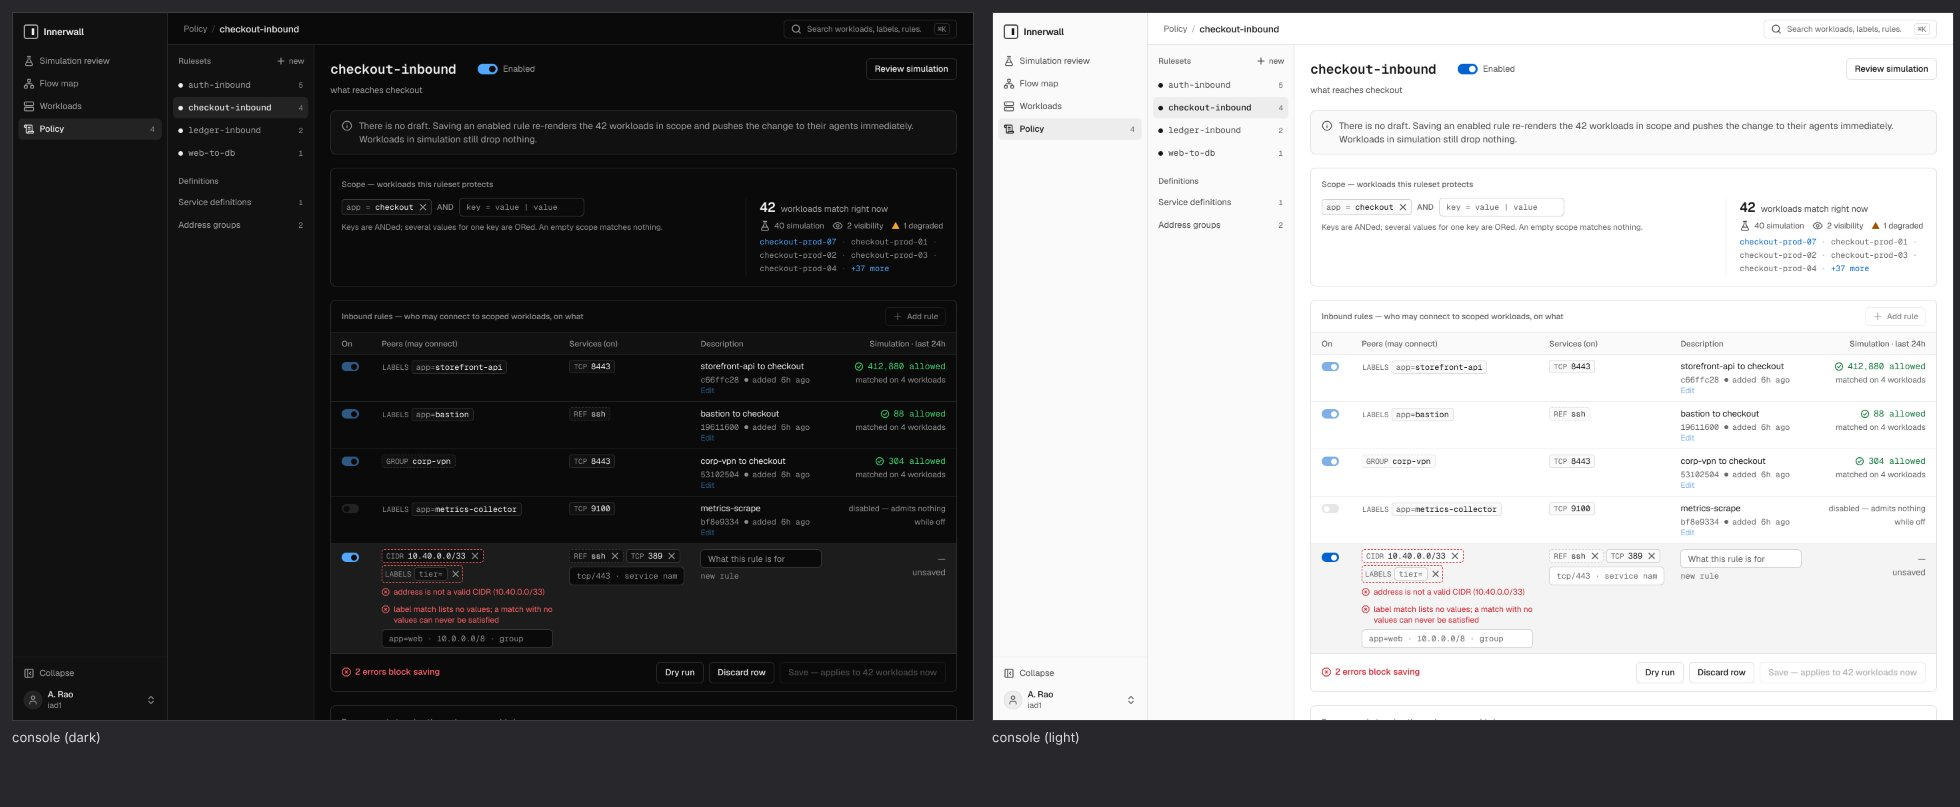
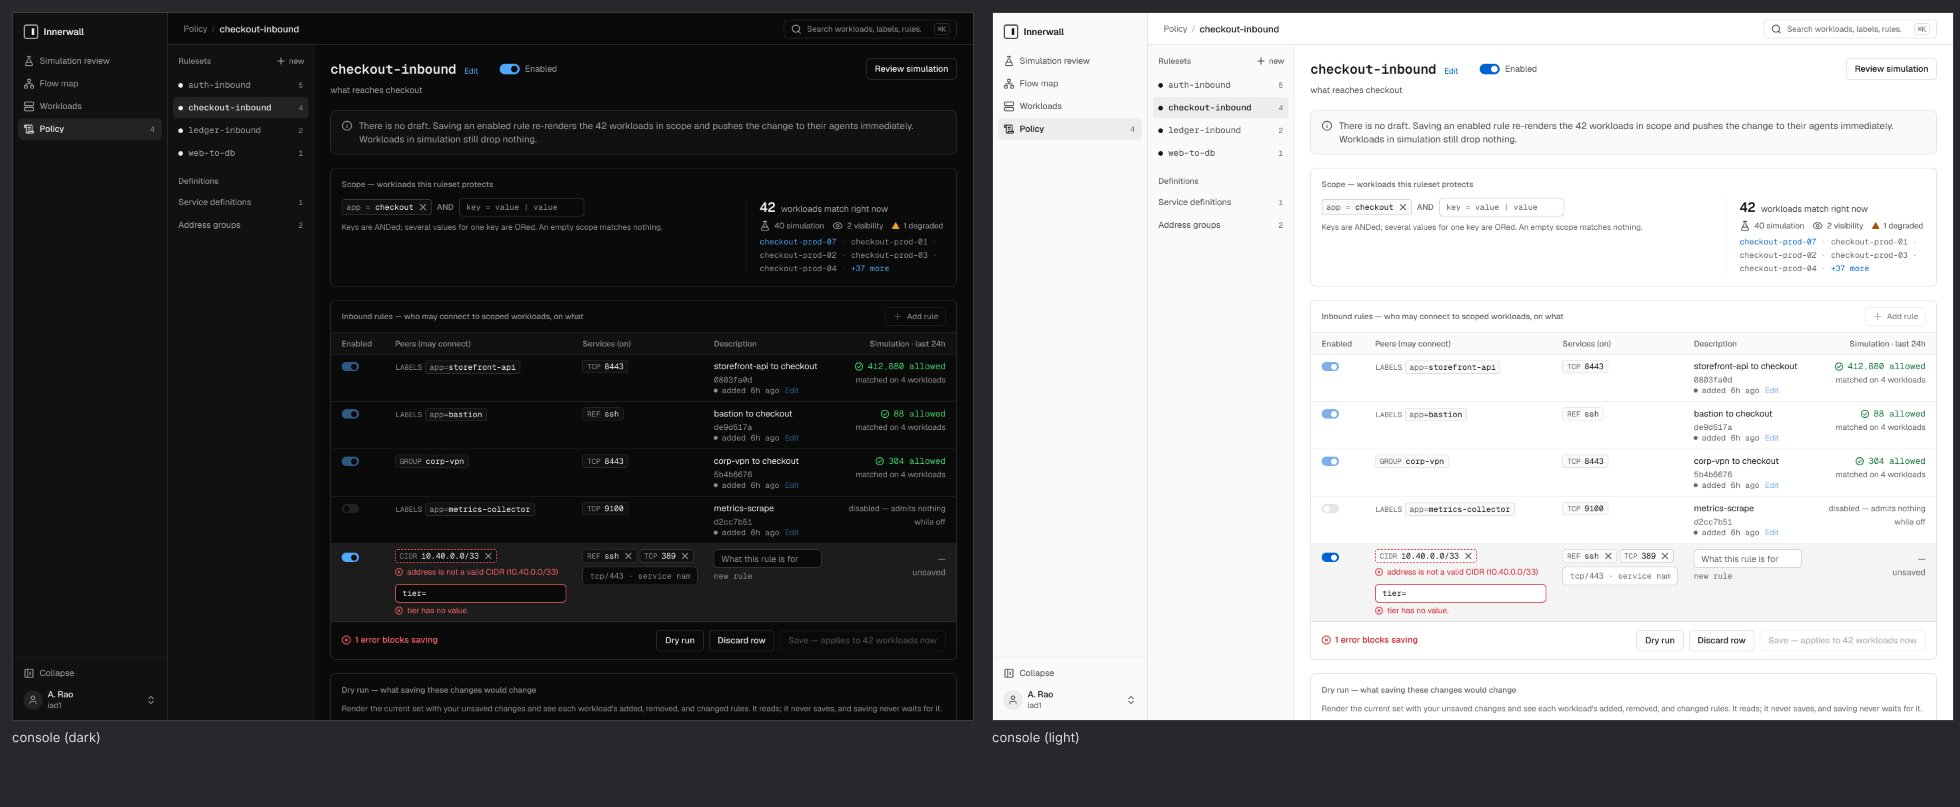
docs(policy): state the destination model; name the rules table's switch column
A rule names peers and services and no destination; it applies to every
workload its ruleset's scope matches. An operator who expects a
per-rule destination writes one ruleset over a whole environment with a
rule per edge, and every rule then lands on every workload in it. The
dry run reveals that, but nothing said so before the operator reached
for the wrong structure.

docs/policy.md is the repository's policy guide. It opens with the
model: a rule has no destination selector, the ruleset's scope is the
destination, one ruleset per protected tier is the intended shape, and
the dry run is the safety net. It then describes selectors, rulesets,
rules, what a workload holds in each mode, the per-tier shape against
the shape that goes wrong, and an authoring section. The save-ordering
note moves there from docs/development.md, which keeps a pointer. The
README quickstart, ARCHITECTURE.md's policy model, and the deploy
guide's authoring example state the same in one line each.

The rules table's first column held the rule's enabled switch under the
header "On", which beside "Peers (may connect)" and "Services (on)"
read as a destination column. It is now "Enabled", the name the
switch's own label and the ruleset's header switch already use; the
column widens to fit it. Composite 12 is recaptured; the dry-run
composite does not show the header and is unchanged.

Fixes #60
Refs: INN-32

diff --git a/ui/src/routes/policy/RulesTable.tsx b/ui/src/routes/policy/RulesTable.tsx
@@ -66,7 +66,7 @@ const head =
 	"h-row-header whitespace-nowrap border-b border-default px-3 text-left type-label text-tertiary first:pl-4 last:pr-4";
 
 // RulesCard is the ruleset's inbound rules: who may connect to the
-// scoped workloads, on what, whether each rule is on, and what each
+// scoped workloads, on what, whether each rule is enabled, and what each
 // admitted over the last day.
 export function RulesCard({
 	rules,
@@ -134,7 +134,7 @@ export function RulesCard({
 				className="w-full table-fixed border-collapse border-t border-default text-left"
 			>
 				<colgroup>
-					<col className="w-[64px]" />
+					<col className="w-[84px]" />
 					<col className="w-[30%]" />
 					<col className="w-[21%]" />
 					<col />
@@ -142,7 +142,7 @@ export function RulesCard({
 				</colgroup>
 				<thead>
 					<tr className="bg-subtle">
-						<th className={head}>On</th>
+						<th className={head}>Enabled</th>
 						<th className={head}>Peers (may connect)</th>
 						<th className={head}>Services (on)</th>
 						<th className={head}>Description</th>

diff --git a/ui/src/routes/policy/policy.test.tsx b/ui/src/routes/policy/policy.test.tsx
@@ -396,6 +396,14 @@ describe("policy editor", () => {
 		expect(
 			screen.getByRole("columnheader", { name: /Simulation/ }),
 		).toHaveTextContent("Simulation · last 24h");
+		// The switch column names what it holds; a bare "On" read as the
+		// rule's destination, which a rule does not have.
+		expect(
+			within(screen.getByRole("table", { name: "Rules" }))
+				.getAllByRole("columnheader")
+				.map((h) => h.textContent)
+				.slice(0, 3),
+		).toEqual(["Enabled", "Peers (may connect)", "Services (on)"]);
 	});
 
 	it("states the blast radius from the live preview, joined with the scoped walk", async () => {

diff --git a/docs/policy.md b/docs/policy.md
@@ -1,0 +1,79 @@
+# Policy
+
+How Innerwall policy is shaped, what a workload ends up holding, and how to author it without surprises. The decisions behind it are ADR-0010 (inbound only), ADR-0018 (rendering and versions), ADR-0020 (what the kernel holds), and ADR-0022 (the label grammar).
+
+## Read this first: the scope is the destination
+
+- **A rule has no destination selector.** A rule names its peers (who may connect) and its services (on what). That is all it names.
+- **The ruleset's scope is the destination.** Every rule in a ruleset applies to every workload the ruleset's scope matches, and to no other.
+- **One ruleset per protected tier is the intended shape.** To admit `tcp/5432` to the database tier only, write a ruleset whose scope is the database tier (`role=db`) and put the rule there. The same rule in a ruleset scoped to the whole environment (`env=prod`) admits `tcp/5432` on every workload in `env=prod`.
+- **The dry run is the safety net.** Before anything is written, it lists every workload whose rendered policy would change and the rules it would gain or lose. A rule landing wider than intended shows up there as more workloads than the tier holds.
+
+## The model
+
+**Workloads carry labels.** A label is `key=value`, in the one grammar ADR-0022 defines: a key of 1 to 63 ASCII letters, digits, `.`, `_`, `-`, or `/`, a value of 1 to 63 letters, digits, `.`, `_`, or `-`, each beginning and ending with a letter or digit. Policy is written between label sets; addresses are an output of rendering, never an input.
+
+**A selector matches workloads by label.** Every key it names must be present (AND), and the workload's value for that key must be one of the values listed (OR). `role=db env=prod` matches the production databases; `role=db|cache` matches both tiers. A selector with no requirements matches nothing, so an empty scope protects no workload rather than all of them.
+
+**A ruleset is a scope and the rules that apply under it.** It has a name, a description, an enabled switch, a scope (a selector), and its rules. A disabled ruleset contributes nothing to any workload.
+
+**A rule admits.** It has a direction, an enabled switch, a description, peers, and services:
+
+- *Direction* is `inbound` and nothing else in this version (ADR-0010). A rule constrains what may reach the workloads in scope; nothing constrains what they send.
+- *Peers* are the remote end, the sources a connection may come from: workloads by selector, a named address group, or a literal CIDR. A workload peer resolves to the current addresses of the workloads it matches, and follows them as they change.
+- *Services* are the local ports: named service definitions, inline entries (`tcp` with ports or port ranges, `udp` likewise, `icmp`), or both.
+- A disabled rule admits nothing while off and keeps its place in the ruleset.
+
+There is no deny rule. A rule only admits; what decides the rest is the workload's mode.
+
+**What a workload holds.** A workload's rendered policy is the union of the enabled rules of every enabled ruleset whose scope matches it, with peers resolved to addresses. Its version advances only when that rendered output changes (ADR-0018). Loopback and established connections are accepted before any rule. A new inbound connection the rules do not admit meets the mode's terminal verdict (ADR-0020):
+
+| Mode | Terminal verdict | Recorded as |
+|---|---|---|
+| `visibility` | none: the rules are not installed and nothing is dropped | `observed` |
+| `simulation` | accept, and record what enforcement would drop | `would_block` |
+| `enforced` | drop | `blocked` |
+
+A workload that no scope matches holds no rules. In visibility that changes nothing; in simulation every new inbound connection to it is `would_block`; enforced, every one is dropped. The simulation review reports exactly this before enforcement is turned on.
+
+## Shaping rulesets
+
+**One ruleset per protected tier.** For a three-tier application:
+
+| Ruleset | Scope (the destination) | Rules (peers → services) |
+|---|---|---|
+| `web-inbound` | `role=web` | address group `corp` → `tcp/443` |
+| `api-inbound` | `role=api` | `role=web` → `tcp/8080` |
+| `db-inbound` | `role=db` | `role=api` → service `postgres` |
+
+Each tier's ruleset says who may reach that tier and on what. Reading a ruleset answers one question, "what may connect to these workloads", and nothing in one tier's ruleset can open a port on another tier.
+
+**The shape that goes wrong.** One ruleset scoped `env=prod` holding all three rules reads like a list of edges (corp → web, web → api, api → db), but a rule has no destination: every workload in `env=prod` gains all three rules. The database then admits `tcp/443` from `corp`, and the web servers admit `postgres` from the API tier. The dry run shows it: every `env=prod` workload listed as gaining every rule.
+
+**Narrow with the scope.** To admit something to fewer workloads, the scope is what narrows: add a requirement (`role=db env=prod` rather than `role=db`), or move the rule into a ruleset whose scope is exactly the workloads it should reach. A tier that admits several peers on different services holds several rules in its one ruleset.
+
+**Broad scopes are for admissions that really are estate-wide.** A ruleset scoped `env=prod` that admits `tcp/22` from `role=bastion` is the right shape when every production workload should accept SSH from the bastion: the destination really is every workload in scope. A workload in several scopes holds the union of their rules, so such a ruleset composes with each tier's own.
+
+## Authoring
+
+Policy is edited live: there is no draft and no estate-wide policy version. Every write is conditioned on the version its author read, and a write against a version that has moved is refused with the current one. The console's rule and scope saves say how many workloads they apply to, and apply at once. The command line writes the same objects (`innerwall ruleset create -f`, `ruleset update`, `service create`, `address-group create`; see [docs/deploy/README.md](deploy/README.md)) through the same domain functions, under the same admission.
+
+**The dry run.** In the policy editor, **Dry run** submits every ruleset as read, with the unsaved edits in place, and shows each workload whose rendered policy would change: the rules it would gain, lose, or see changed. It never writes and never gates a save. Run it after editing a scope or a rule and before saving: if the list holds workloads outside the tier, the rule is in the wrong ruleset or the scope is too broad.
+
+**Save ordering.** Saves are independent writes, so order matters when a scope edit and a rule edit are both unsaved: a rule saved on its own applies at once under the scope *as saved*, which is not the combination the dry run previewed. The edited row's save therefore writes the scope and the rule together, as one ruleset write conditioned on its version (**Save rule and scope**), which is exactly the set the dry run of the two previews. Saving the scope on its own stays offered and is safe.
+
+**The rules table.** Each row of a ruleset's rules is one rule:
+
+| Column | What it is |
+|---|---|
+| Enabled | The rule's enabled switch. It is not a destination: the scope above the table is the destination of every row. |
+| Peers (may connect) | The sources the rule admits |
+| Services (on) | The ports and protocols it admits them on |
+| Description | The rule's description and short id |
+| Simulation · last 24h | The connections the rule allowed over the last day across the workloads in scope, and on how many workloads it matched them |
+
+The table's heading says the same thing in one line: inbound rules, who may connect to the scoped workloads, on what.
+
+## From authoring to enforcement
+
+Every workload starts in visibility. The path is: write a ruleset per tier, dry-run it, move the tier's workloads to simulation, read the simulation review (the real, recent connections that would have been blocked, beside any gaps in the evidence), and promote to enforcement when the review says it is safe, or with an explicit acknowledgment when it does not (ADR-0001). Reverting a change is another live edit.

diff --git a/docs/development.md b/docs/development.md
@@ -73,7 +73,7 @@ Then open `https://127.0.0.1:8080/` and accept the generated certificate (its fi
 
 The simulation review reads only the public surface: the rulesets, each enabled ruleset's would-block traffic for its tab, and for the ruleset under review the peer-and-service and source-by-destination rollups under each decision, scoped by the ruleset's own selector as `label` requirements, with every workload the scope selects. Its verdict is composed in the console from those reads and never fetched; a row's pairs, windows, and rule are read when the operator opens it, and a promotion previews the scope and submits the chosen workloads by id.
 
-The policy editor reads only the public surface and edits live: there is no draft, and every save is a write conditioned on the version the editor read (`If-Match`), refused with the current version when the object has moved. It reads the ruleset listing (whose `state_version` the control plane reads in the same snapshot as the rulesets), the service definitions and address groups that rules reference, what the ruleset's scope matches (`POST /selectors/preview`, joined by id with the scoped workload walk for mode and sync state, and read again as a scope is edited), and the day's admitted traffic per rule (`group_by=rule`, `verdict=allowed`, scoped by the ruleset's selector, with each rule's `workload_count`). The header edits the ruleset's name and description (what the command line's `ruleset update` does), as a ruleset write conditioned on its version exactly as a scope save is; a rename moves no workload's policy, and the editor follows the renamed ruleset to its new address. Saves are independent writes, so order matters when a scope edit and a rule edit are both unsaved: a rule saved on its own applies at once under the scope as saved. The row's save then writes the scope and the rule together as one ruleset write conditioned on its version, which is exactly the set a dry run of the two previews; saving the scope on its own stays offered and is safe. A dry run submits every ruleset as read with the unsaved edits in place (a new rule under a temporary id) at the state version read, and renders `POST /policies/render-dryrun`'s per-workload deltas; it never writes and never gates a save. A refused write's findings are placed on the elements their paths name. A rule's peer input reads three forms: `key=value` requirements (several separated by spaces, a key's values by `|`) are a workload selector; text shaped like an address (an IPv4 octet and a dot, or IPv6 groups around two colons, at its start) is a CIDR, so a mistyped one such as `10.0.0.999/8` is refused as not a valid CIDR; anything else names an address group. Service definitions and address groups have no screens in this version: the rail counts them.
+The policy editor reads only the public surface and edits live: there is no draft, and every save is a write conditioned on the version the editor read (`If-Match`), refused with the current version when the object has moved. It reads the ruleset listing (whose `state_version` the control plane reads in the same snapshot as the rulesets), the service definitions and address groups that rules reference, what the ruleset's scope matches (`POST /selectors/preview`, joined by id with the scoped workload walk for mode and sync state, and read again as a scope is edited), and the day's admitted traffic per rule (`group_by=rule`, `verdict=allowed`, scoped by the ruleset's selector, with each rule's `workload_count`). The header edits the ruleset's name and description (what the command line's `ruleset update` does), as a ruleset write conditioned on its version exactly as a scope save is; a rename moves no workload's policy, and the editor follows the renamed ruleset to its new address. When a scope edit and a rule edit are both unsaved, the row's save writes the two together as one ruleset write conditioned on its version, which is exactly the set a dry run of the two previews; why the order matters is in [the policy guide's authoring section](policy.md#authoring). A dry run submits every ruleset as read with the unsaved edits in place (a new rule under a temporary id) at the state version read, and renders `POST /policies/render-dryrun`'s per-workload deltas; it never writes and never gates a save. A refused write's findings are placed on the elements their paths name. A rule's peer input reads three forms: `key=value` requirements (several separated by spaces, a key's values by `|`) are a workload selector; text shaped like an address (an IPv4 octet and a dot, or IPv6 groups around two colons, at its start) is a CIDR, so a mistyped one such as `10.0.0.999/8` is refused as not a valid CIDR; anything else names an address group. Service definitions and address groups have no screens in this version: the rail counts them.
 
 The flow map renders with `@xyflow/react` (ADR-0008) and lays out with `@dagrejs/dagre`; both load with the map's own chunk, so no other screen carries them. The map reads only the public surface: the source-by-destination rollup once per decision, every workload in the map's scope (a page at a time), and the address groups; a pair's windows come from `GET /flows` when the operator opens it. Nothing the graph library draws carries a color of its own: `src/index.css` points its custom properties at the tokens.
 
@@ -145,7 +145,7 @@ ui/src/routes/map/        the flow map: model.ts (rollups to label groups), layo
 ui/src/routes/policy/     the policy editor: model.ts (cells, drafts, findings, the dry run's request and reading), data.ts, the rail, scope card, rules table, and dry-run card
 ui/scripts/               generate-api.mjs (the console's types) and capture-composites.mjs (the review composites)
 scripts/                  everything the Makefile calls that has logic
-docs/adr                  decisions; docs/deploy: running it; docs/img: diagrams
+docs/adr                  decisions; docs/deploy: running it; docs/policy.md: the policy model and how to author it; docs/img: diagrams
 ```
 
 ## Commits

diff --git a/README.md b/README.md
@@ -89,7 +89,7 @@ sudo bin/innerwall-agent enroll --server localhost:8443 --token <provisioning-to
 sudo bin/innerwall-agent daemon --server localhost:8443
 ```
 
-On another host, use the control plane's address in place of `localhost`; the gateway's certificate must name it (`--tls-hosts`). The workload appears in the console's fleet, synced, in visibility mode: observed, never blocked. From there the path is the one the console walks: write a ruleset, move workloads to simulation, read the simulation review, and promote. `sudo bin/innerwall-agent down` removes the agent's firewall table at any time without the control plane. Running it in production, with more than one replica, behind load balancers, is in [docs/deploy/README.md](docs/deploy/README.md).
+On another host, use the control plane's address in place of `localhost`; the gateway's certificate must name it (`--tls-hosts`). The workload appears in the console's fleet, synced, in visibility mode: observed, never blocked. From there the path is the one the console walks: write a ruleset, move workloads to simulation, read the simulation review, and promote. A rule has no destination of its own: the ruleset's scope is the destination, so write one ruleset per tier you protect and let the dry run show which workloads each change reaches ([docs/policy.md](docs/policy.md)). `sudo bin/innerwall-agent down` removes the agent's firewall table at any time without the control plane. Running it in production, with more than one replica, behind load balancers, is in [docs/deploy/README.md](docs/deploy/README.md).
 
 ## Layout
 
@@ -103,6 +103,7 @@ On another host, use the control plane's address in place of `localhost`; the ga
 | `ui/` | The operator console: Vite + React, embedded into the control plane (ADR-0008) |
 | `docs/adr/` | Architecture decision records: the design's source of truth |
 | `docs/deploy/` | Running it: deployment, the operator surface, high availability |
+| `docs/policy.md` | The policy model: the scope is the destination, one ruleset per tier, authoring and the dry run |
 | `docs/development.md` | Prerequisites, make targets, where things live |
 
 ## Contributing

diff --git a/ARCHITECTURE.md b/ARCHITECTURE.md
@@ -131,6 +131,7 @@ Trust-on-first-use is explicitly rejected: an enrollment window where anyone rea
 ## 7. Policy model
 
 - **Labels, not addresses.** Workloads carry labels (e.g. `role=db`, `env=prod`, `app=billing`); rules are written between label sets. IPs are an output of compilation, never an input to policy.
+- **The scope is the destination.** A ruleset is a scope (a label selector) and its rules; a rule names peers and services and no destination, and applies to every workload its ruleset's scope matches. A workload holds the union of the enabled rules of every enabled ruleset whose scope matches it. One ruleset per protected tier is the intended shape ([docs/policy.md](docs/policy.md)).
 - **Edit live, dry-run, simulate, promote.** Rulesets, rules, services, and address groups are edited live, each write conditioned on the version its author read; there is no draft. A dry-run render shows what a hypothetical policy would install on each workload before it is written. Simulation runs the exact ruleset enforcement would install on real traffic and records what it would drop (ADR-0020), and the simulation review reports exactly which real, recent connections would have been blocked, beside any gaps in the evidence. Each workload's rendered policy is versioned by diff (ADR-0018); there is no estate-wide numbered policy version, and reverting a change is another live edit.
 - **Enforcement scope, v1: inbound only** (ADR-0010). Each workload's ruleset constrains what may reach it. Inbound-only halves the policy surface an operator must reason about, and it is the direction where a mistake is legible (a blocked *inbound* dependency shows up in the map immediately). Outbound enforcement arrives in v2 as a layered model: shared **baseline policies** for estate-wide dependencies (DNS, directory services, NTP, package mirrors) composed under **app-scoped policies**, so application teams never re-declare infrastructure.
 - **Enforcement is per-scope and gradual.** Workloads move visibility → simulated → enforced individually or by label selection; nothing forces estate-wide enforcement as a single event.

diff --git a/docs/deploy/README.md b/docs/deploy/README.md
@@ -40,7 +40,7 @@ docker compose exec innerwall /innerwall workload set-mode <workload-id> simulat
 docker compose exec innerwall /innerwall policy show <workload-id>
 ```
 
-Only inbound rules are admitted (ADR-0010). A workload in `visibility` mode has no verdict installed: its table holds one chain, `observe`, whose one rule engages the kernel's connection tracking and accepts, so connections are observed on a host where nothing else engages it, and nothing is dropped; `simulation` installs the enforced ruleset with the terminal rule accepting and reporting what enforcement would drop as `would_block`; `enforced` drops it and reports `blocked` (ADR-0020). The agent re-applies its last acknowledged policy from disk on every start, before it dials the control plane, and leaves the kernel rules in place when it exits. Root on the host removes them with the local kill switch:
+The scope is the destination: every rule in `web-to-db` applies to every workload `role=db` matches, and a rule names no destination of its own, so each protected tier gets a ruleset of its own ([docs/policy.md](../policy.md)). Only inbound rules are admitted (ADR-0010). A workload in `visibility` mode has no verdict installed: its table holds one chain, `observe`, whose one rule engages the kernel's connection tracking and accepts, so connections are observed on a host where nothing else engages it, and nothing is dropped; `simulation` installs the enforced ruleset with the terminal rule accepting and reporting what enforcement would drop as `would_block`; `enforced` drops it and reports `blocked` (ADR-0020). The agent re-applies its last acknowledged policy from disk on every start, before it dials the control plane, and leaves the kernel rules in place when it exits. Root on the host removes them with the local kill switch:
 
 ```sh
 innerwall-agent down --state-dir ./agent-state
